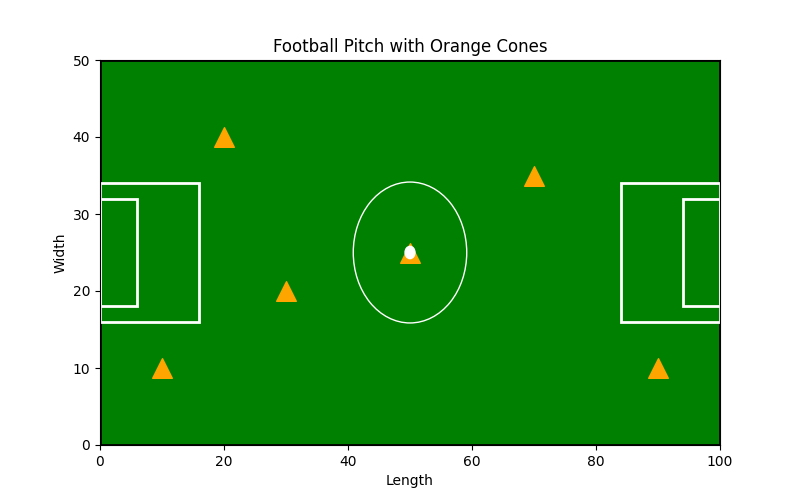
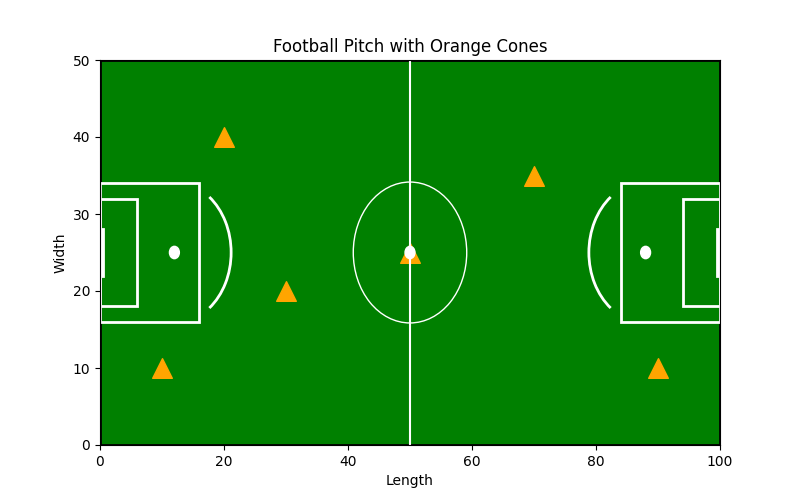
✨ feat: update README and enhance draw_cone_layout.py with penalty area and halfway line visualizations

diff --git a/src/draw_cone_layout.py b/src/draw_cone_layout.py
@@ -49,6 +49,27 @@ ax.add_patch(goal_area)
 goal_area = patches.Rectangle((100-6, 18), 6, 14, linewidth=2, edgecolor='white', facecolor='none')
 ax.add_patch(goal_area)
 
+# Penalty spot
+penalty_spot = plt.Circle((12, 25), 0.8, color='white')
+ax.add_artist(penalty_spot)
+penalty_spot = plt.Circle((100-12, 25), 0.8, color='white')
+ax.add_artist(penalty_spot)
+
+# Goal
+goal = patches.Rectangle((0, 22), 0.5, 6, linewidth=2, edgecolor='white', facecolor='white')
+ax.add_patch(goal)
+goal = patches.Rectangle((100-0.5, 22), 0.5, 6, linewidth=2, edgecolor='white', facecolor='white')
+ax.add_patch(goal)
+
+# Penalty arc
+penalty_arc = patches.Arc((12, 25), 18.3, 18.3, angle=0, theta1=308, theta2=52, linewidth=2, edgecolor='white')
+ax.add_patch(penalty_arc)
+penalty_arc = patches.Arc((100-12, 25), 18.3, 18.3, angle=0, theta1=128, theta2=232, linewidth=2, edgecolor='white')
+ax.add_patch(penalty_arc)
+
+# Halfway line
+halfway_line = plt.Line2D([50, 50], [0, 50], color='white')
+ax.add_artist(halfway_line)
 
 
 

diff --git a/README.md b/README.md
@@ -6,8 +6,8 @@ Revolutionize Your Training with Augmented Reality
 
 Welcome to AR Soccer Drill Setup, the ultimate tool for soccer players and coaches! Using augmented reality (AR), this app helps you precisely position training cones and markers on the field, directly through your iPhone. Say goodbye to guesswork and hello to accuracy and efficiency in setting up your drills!
 
-🎯 Features
-	•	🟠 AR Cone Placement: Use your iPhone to visualize and position cones in real-time.
+# 🎯 Features
+🟠 AR Cone Placement: Use your iPhone to visualize and position cones in real-time.
 	•	📐 Precision Layouts: Customize drill patterns with exact distances and angles.
 	•	📋 Pre-Set Templates: Choose from pre-designed setups for passing drills, dribbling courses, and more.
 	•	📱 Save and Share: Save your layouts and share them with teammates or other coaches.
